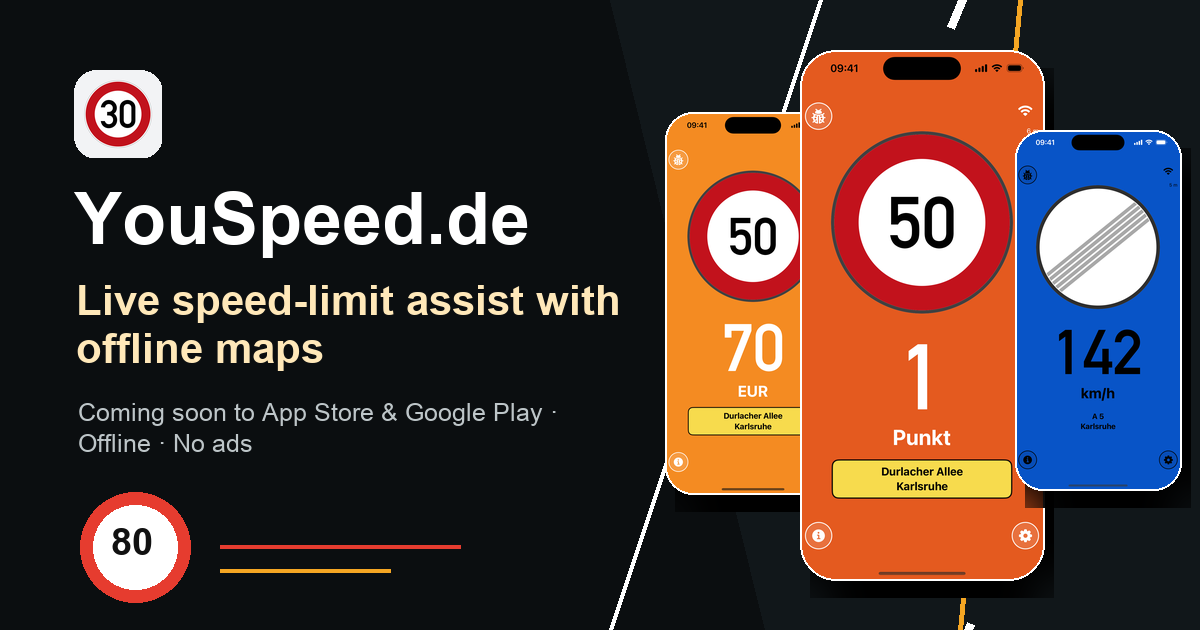
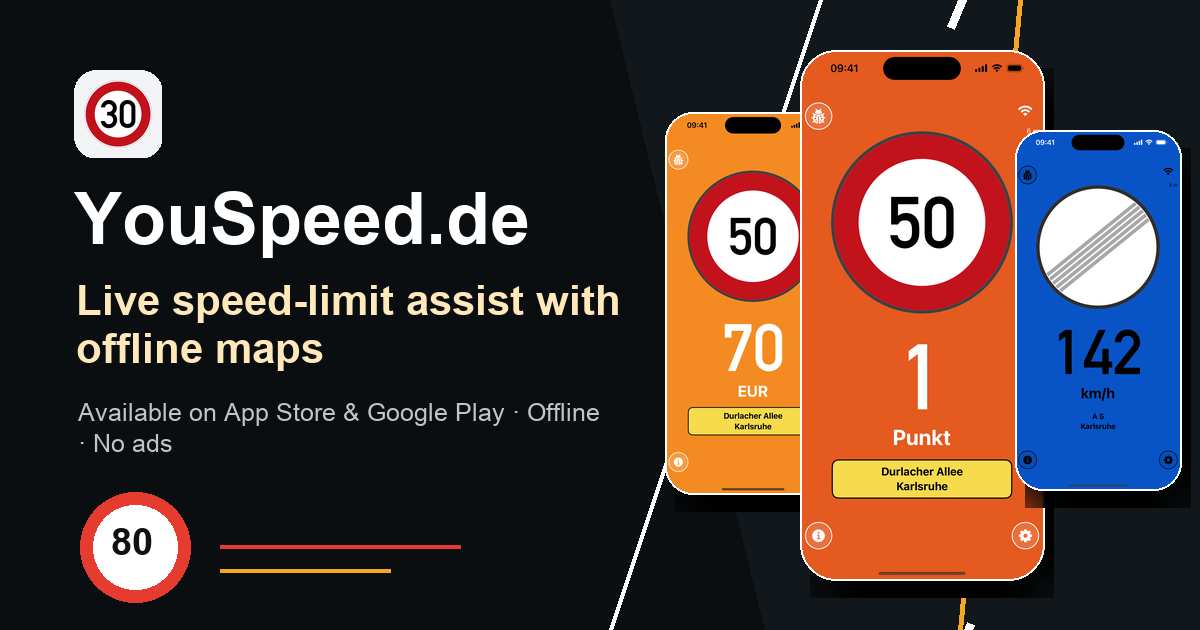
Update iPhone App Store links

Changed region(s): [[0.0617, 0.6333, 0.4933, 0.7238]]

diff --git a/Web/index.html b/Web/index.html
@@ -62,7 +62,7 @@
   ],
   "installUrl": [
     "https://play.google.com/store/apps/details?id=de.youspeed.android",
-    "https://testflight.apple.com/join/k3a1pgce"
+    "https://apps.apple.com/de/app/youspeed-de/id6787469256"
   ]
 }
     </script>
@@ -103,8 +103,8 @@
               <a class="btn store-btn store-btn-google" href="https://play.google.com/store/apps/details?id=de.youspeed.android" target="_blank" rel="noreferrer">
                 <span><small>Android-App</small>Google Play</span>
               </a>
-              <a class="btn store-btn store-btn-apple" href="https://testflight.apple.com/join/k3a1pgce" target="_blank" rel="noreferrer">
-                <span><small>iPhone-Testversion</small>TestFlight</span>
+              <a class="btn store-btn store-btn-apple" href="https://apps.apple.com/de/app/youspeed-de/id6787469256" target="_blank" rel="noreferrer">
+                <span><small>iPhone-App</small>App Store</span>
               </a>
             </div>
             <ul class="hero-facts" aria-label="YouSpeed facts">

diff --git a/sites/index.html b/sites/index.html
@@ -62,7 +62,7 @@
   ],
   "installUrl": [
     "https://play.google.com/store/apps/details?id=de.youspeed.android",
-    "https://testflight.apple.com/join/k3a1pgce"
+    "https://apps.apple.com/de/app/youspeed-de/id6787469256"
   ]
 }
     </script>
@@ -103,8 +103,8 @@
               <a class="btn store-btn store-btn-google" href="https://play.google.com/store/apps/details?id=de.youspeed.android" target="_blank" rel="noreferrer">
                 <span><small>Android-App</small>Google Play</span>
               </a>
-              <a class="btn store-btn store-btn-apple" href="https://testflight.apple.com/join/k3a1pgce" target="_blank" rel="noreferrer">
-                <span><small>iPhone-Testversion</small>TestFlight</span>
+              <a class="btn store-btn store-btn-apple" href="https://apps.apple.com/de/app/youspeed-de/id6787469256" target="_blank" rel="noreferrer">
+                <span><small>iPhone-App</small>App Store</span>
               </a>
             </div>
             <ul class="hero-facts" aria-label="YouSpeed facts">

diff --git a/Web/en/index.html b/Web/en/index.html
@@ -62,7 +62,7 @@
   ],
   "installUrl": [
     "https://play.google.com/store/apps/details?id=de.youspeed.android",
-    "https://testflight.apple.com/join/k3a1pgce"
+    "https://apps.apple.com/de/app/youspeed-de/id6787469256"
   ]
 }
     </script>
@@ -103,8 +103,8 @@
               <a class="btn store-btn store-btn-google" href="https://play.google.com/store/apps/details?id=de.youspeed.android" target="_blank" rel="noreferrer">
                 <span><small>Android app</small>Google Play</span>
               </a>
-              <a class="btn store-btn store-btn-apple" href="https://testflight.apple.com/join/k3a1pgce" target="_blank" rel="noreferrer">
-                <span><small>iPhone beta</small>TestFlight</span>
+              <a class="btn store-btn store-btn-apple" href="https://apps.apple.com/de/app/youspeed-de/id6787469256" target="_blank" rel="noreferrer">
+                <span><small>iPhone app</small>App Store</span>
               </a>
             </div>
             <ul class="hero-facts" aria-label="YouSpeed facts">

diff --git a/Web/fr/index.html b/Web/fr/index.html
@@ -62,7 +62,7 @@
   ],
   "installUrl": [
     "https://play.google.com/store/apps/details?id=de.youspeed.android",
-    "https://testflight.apple.com/join/k3a1pgce"
+    "https://apps.apple.com/de/app/youspeed-de/id6787469256"
   ]
 }
     </script>
@@ -103,8 +103,8 @@
               <a class="btn store-btn store-btn-google" href="https://play.google.com/store/apps/details?id=de.youspeed.android" target="_blank" rel="noreferrer">
                 <span><small>App Android</small>Google Play</span>
               </a>
-              <a class="btn store-btn store-btn-apple" href="https://testflight.apple.com/join/k3a1pgce" target="_blank" rel="noreferrer">
-                <span><small>Test iPhone</small>TestFlight</span>
+              <a class="btn store-btn store-btn-apple" href="https://apps.apple.com/de/app/youspeed-de/id6787469256" target="_blank" rel="noreferrer">
+                <span><small>App iPhone</small>App Store</span>
               </a>
             </div>
             <ul class="hero-facts" aria-label="YouSpeed facts">

diff --git a/Web/nl/index.html b/Web/nl/index.html
@@ -62,7 +62,7 @@
   ],
   "installUrl": [
     "https://play.google.com/store/apps/details?id=de.youspeed.android",
-    "https://testflight.apple.com/join/k3a1pgce"
+    "https://apps.apple.com/de/app/youspeed-de/id6787469256"
   ]
 }
     </script>
@@ -103,8 +103,8 @@
               <a class="btn store-btn store-btn-google" href="https://play.google.com/store/apps/details?id=de.youspeed.android" target="_blank" rel="noreferrer">
                 <span><small>Android-app</small>Google Play</span>
               </a>
-              <a class="btn store-btn store-btn-apple" href="https://testflight.apple.com/join/k3a1pgce" target="_blank" rel="noreferrer">
-                <span><small>iPhone-test</small>TestFlight</span>
+              <a class="btn store-btn store-btn-apple" href="https://apps.apple.com/de/app/youspeed-de/id6787469256" target="_blank" rel="noreferrer">
+                <span><small>iPhone-app</small>App Store</span>
               </a>
             </div>
             <ul class="hero-facts" aria-label="YouSpeed facts">

diff --git a/sites/en/index.html b/sites/en/index.html
@@ -62,7 +62,7 @@
   ],
   "installUrl": [
     "https://play.google.com/store/apps/details?id=de.youspeed.android",
-    "https://testflight.apple.com/join/k3a1pgce"
+    "https://apps.apple.com/de/app/youspeed-de/id6787469256"
   ]
 }
     </script>
@@ -103,8 +103,8 @@
               <a class="btn store-btn store-btn-google" href="https://play.google.com/store/apps/details?id=de.youspeed.android" target="_blank" rel="noreferrer">
                 <span><small>Android app</small>Google Play</span>
               </a>
-              <a class="btn store-btn store-btn-apple" href="https://testflight.apple.com/join/k3a1pgce" target="_blank" rel="noreferrer">
-                <span><small>iPhone beta</small>TestFlight</span>
+              <a class="btn store-btn store-btn-apple" href="https://apps.apple.com/de/app/youspeed-de/id6787469256" target="_blank" rel="noreferrer">
+                <span><small>iPhone app</small>App Store</span>
               </a>
             </div>
             <ul class="hero-facts" aria-label="YouSpeed facts">

diff --git a/sites/fr/index.html b/sites/fr/index.html
@@ -62,7 +62,7 @@
   ],
   "installUrl": [
     "https://play.google.com/store/apps/details?id=de.youspeed.android",
-    "https://testflight.apple.com/join/k3a1pgce"
+    "https://apps.apple.com/de/app/youspeed-de/id6787469256"
   ]
 }
     </script>
@@ -103,8 +103,8 @@
               <a class="btn store-btn store-btn-google" href="https://play.google.com/store/apps/details?id=de.youspeed.android" target="_blank" rel="noreferrer">
                 <span><small>App Android</small>Google Play</span>
               </a>
-              <a class="btn store-btn store-btn-apple" href="https://testflight.apple.com/join/k3a1pgce" target="_blank" rel="noreferrer">
-                <span><small>Test iPhone</small>TestFlight</span>
+              <a class="btn store-btn store-btn-apple" href="https://apps.apple.com/de/app/youspeed-de/id6787469256" target="_blank" rel="noreferrer">
+                <span><small>App iPhone</small>App Store</span>
               </a>
             </div>
             <ul class="hero-facts" aria-label="YouSpeed facts">

diff --git a/sites/nl/index.html b/sites/nl/index.html
@@ -62,7 +62,7 @@
   ],
   "installUrl": [
     "https://play.google.com/store/apps/details?id=de.youspeed.android",
-    "https://testflight.apple.com/join/k3a1pgce"
+    "https://apps.apple.com/de/app/youspeed-de/id6787469256"
   ]
 }
     </script>
@@ -103,8 +103,8 @@
               <a class="btn store-btn store-btn-google" href="https://play.google.com/store/apps/details?id=de.youspeed.android" target="_blank" rel="noreferrer">
                 <span><small>Android-app</small>Google Play</span>
               </a>
-              <a class="btn store-btn store-btn-apple" href="https://testflight.apple.com/join/k3a1pgce" target="_blank" rel="noreferrer">
-                <span><small>iPhone-test</small>TestFlight</span>
+              <a class="btn store-btn store-btn-apple" href="https://apps.apple.com/de/app/youspeed-de/id6787469256" target="_blank" rel="noreferrer">
+                <span><small>iPhone-app</small>App Store</span>
               </a>
             </div>
             <ul class="hero-facts" aria-label="YouSpeed facts">

diff --git a/scripts/web/render_social_assets.py b/scripts/web/render_social_assets.py
@@ -33,17 +33,17 @@ LOCALES = {
     "en": {
         "title": "YouSpeed.de",
         "subtitle": "Live speed-limit assist with offline maps",
-        "detail": "Coming soon to App Store & Google Play · Offline · No ads",
+        "detail": "Available on App Store & Google Play · Offline · No ads",
     },
     "fr": {
         "title": "YouSpeed.de",
         "subtitle": "Assistant de vitesse avec cartes hors ligne",
-        "detail": "Bientôt sur App Store et Google Play · Hors ligne · Sans publicité",
+        "detail": "Disponible sur App Store et Google Play · Hors ligne · Sans publicité",
     },
     "nl": {
         "title": "YouSpeed.de",
         "subtitle": "Live snelheidslimiet met offline kaarten",
-        "detail": "Binnenkort in App Store en Google Play · Offline · Geen advertenties",
+        "detail": "Beschikbaar in App Store en Google Play · Offline · Geen advertenties",
     },
 }
 

diff --git a/README.md b/README.md
@@ -15,19 +15,19 @@ YouSpeed is an open-source, offline-first intelligent speed-assistance app for i
 ## Get YouSpeed
 
 - [Google Play](https://play.google.com/store/apps/details?id=de.youspeed.android)
-- [iPhone test on TestFlight](https://testflight.apple.com/join/k3a1pgce) (Apple App Store release pending review)
+- [iPhone on the App Store](https://apps.apple.com/de/app/youspeed-de/id6787469256)
 
 Scan to download the app or open its source code:
 
 <table>
   <tr>
     <th width="33%">Android (Google Play)</th>
-    <th width="34%">Apple iPhone (TestFlight)</th>
+    <th width="34%">Apple iPhone (App Store)</th>
     <th width="33%">this.repo</th>
   </tr>
   <tr>
     <td align="center"><a href="https://play.google.com/store/apps/details?id=de.youspeed.android"><img src="docs/qr/google-play.png" alt="QR code for YouSpeed on Google Play"></a></td>
-    <td align="center"><a href="https://testflight.apple.com/join/k3a1pgce"><img src="docs/qr/testflight.png" alt="QR code for the YouSpeed TestFlight"></a></td>
+    <td align="center"><a href="https://apps.apple.com/de/app/youspeed-de/id6787469256"><img src="docs/qr/app-store.png" alt="QR code for YouSpeed on the Apple App Store"></a></td>
     <td align="center"><a href="https://github.com/volzinnovation/youspeed.de"><img src="docs/qr/github.png" alt="QR code for the YouSpeed source repository on GitHub"></a></td>
   </tr>
 </table>
